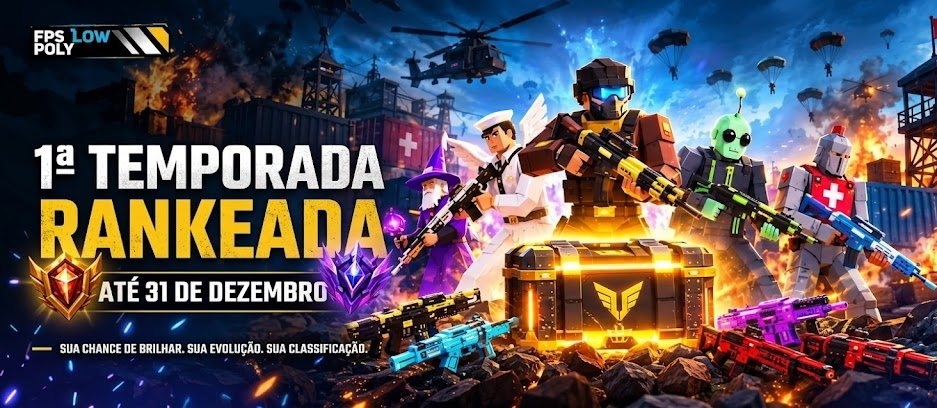
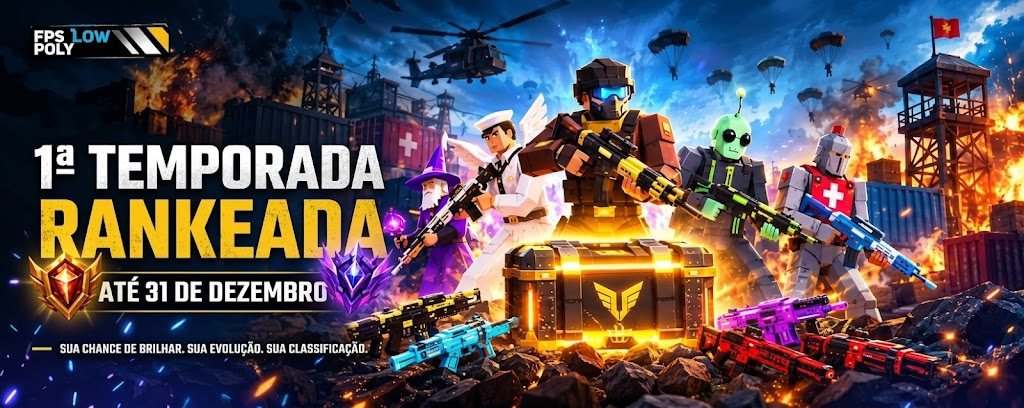
atualização de bugs

diff --git a/content.js b/content.js
@@ -1,18 +1,18 @@
 /* conteúdo editável do site (textos, eventos, modos, controles) */
 const MS = ['jan','fev','mar','abr','mai','jun','jul','ago','set','out','nov','dez'];
 const EV = [
-  ['2026-10', 'Halloween', 'Noite das Abóboras', 'Abóboras, teias e luz laranja no escuro.', 'Laboratório', 10],
-  ['2026-11', 'República', 'Bandeira da República', 'Azul e dourado para o mês da República.', 'Porto de Santos', 10],
-  ['2026-12', 'Natal', 'Bengala Doce', 'Conjunto de Natal com o Papai Noel, 30 moedas e 3 caixas.', 'Montanha de Gelo', 10],
-  ['2027-01', 'Ano Novo', 'Fogos de Réveillon', 'Brinde o ano novo com fogos e brilho dourado.', 'Plataforma de Petróleo', 10],
-  ['2027-02', 'Carnaval', 'Confete e Serpentina', 'A folia chegou ao parque de diversões.', 'Parque de Diversões', 10],
+  ['2026-10', 'Halloween', 'Noite das Abóboras', 'Abóboras, teias e luz laranja no escuro.', 'Laboratório', 7],
+  ['2026-11', 'República', 'Bandeira da República', 'Azul e dourado para o mês da República.', 'Porto de Santos', 8],
+  ['2026-12', 'Natal', 'Bengala Doce', 'Conjunto de Natal com o Papai Noel, 30 moedas e 3 caixas.', 'Montanha de Gelo', 8],
+  ['2027-01', 'Ano Novo', 'Fogos de Réveillon', 'Brinde o ano novo com fogos e brilho dourado.', 'Plataforma de Petróleo', 8],
+  ['2027-02', 'Carnaval', 'Confete e Serpentina', 'A folia chegou ao parque de diversões.', 'Parque de Diversões', 8],
   ['2027-03', 'Dia do Circo', 'Grande Circo', 'Respeitável público: listras vermelhas e brancas.', 'Parque de Diversões', 8],
-  ['2027-04', 'Páscoa', 'Ovo de Páscoa', 'Chocolate, laços e cores de Páscoa, com o Coelhinho.', 'Floresta', 10],
-  ['2027-05', 'Dia das Mães', 'Jardim em Flor', 'Flores e rosa para homenagear quem manda em casa.', 'Litoral', 10],
-  ['2027-06', 'Festa Junina', 'Arraiá', 'Xadrez junino, fogueira e bandeirinhas.', 'Sertãozinho', 10],
-  ['2027-07', 'Férias de Julho', 'Verão no Litoral', 'Sol, mar e areia dourada.', 'Litoral', 10],
-  ['2027-08', 'Folclore Brasileiro', 'Lenda da Mata', 'Curupira, Iara e Saci: o Brasil das lendas.', 'Floresta', 10],
-  ['2027-09', 'Independência', 'Verde e Amarelo', 'Orgulho nas cores do Brasil.', 'Montanha de Gelo', 10]
+  ['2027-04', 'Páscoa', 'Ovo de Páscoa', 'Chocolate, laços e cores de Páscoa, com o Coelhinho.', 'Floresta', 8],
+  ['2027-05', 'Dia das Mães', 'Jardim em Flor', 'Flores e rosa para homenagear quem manda em casa.', 'Litoral', 8],
+  ['2027-06', 'Festa Junina', 'Arraiá', 'Xadrez junino, fogueira e bandeirinhas.', 'Sertãozinho', 8],
+  ['2027-07', 'Férias de Julho', 'Verão no Litoral', 'Sol, mar e areia dourada.', 'Litoral', 8],
+  ['2027-08', 'Folclore Brasileiro', 'Lenda da Mata', 'Curupira, Iara e Saci: o Brasil das lendas.', 'Floresta', 8],
+  ['2027-09', 'Independência', 'Verde e Amarelo', 'Orgulho nas cores do Brasil.', 'Montanha de Gelo', 8]
 ].map(([ym, n, skin, desc, map, goal]) => ({ ym, n, skin, desc, map, goal, img: `img/banners/${ym}.jpg` }));
 const SOON = ['2027-10', '2027-11', '2027-12'];
 const ymLabel = (ym) => { const [y, m] = ym.split('-'); return `${MS[m - 1]}/${y.slice(2)}`; };
@@ -31,14 +31,14 @@ const MODES = [
 ];
 const SH = [['battle-royale', 'Battle Royale'], ['modo-bomba', 'Modo Bomba'], ['tatico', 'Tático: loja da rodada'], ['inventario', 'Arsenal e inventário'], ['elo', 'Elos e temporada'], ['menu', 'Menu principal']];
 const K = (k) => `<kbd>${k}</kbd>`;
-const KEYS = [['Andar', 'W A S D'], ['Correr', 'Shift'], ['Pular', 'Espaço'], ['Agachar / devagar', 'X'], ['Deslizar', 'C'], ['Atirar', 'Mouse esq.'], ['Mirar', 'Mouse dir.'], ['Recarregar', 'R'], ['Corpo a corpo', 'Clique na rolagem'], ['Primária ↔ Faca', 'E'], ['Primária ↔ Secundária', 'Q'], ['Slots', '1 · 2 · 3'], ['Granada', '4'], ['Bomba especial (fumaça, luz, mina)', '5'], ['Bomba (Modo Bomba)', '6'], ['Pegar item / desarmar bomba', 'T'], ['Largar item', 'G'], ['Lanterna', 'L'], ['Usar cura (Battle Royale)', 'H'], ['Construir barricada', 'N'], ['Marcar ponto (ping)', 'Z'], ['Loja / Arsenal / Mochila', 'B'], ['Placar', 'Tab'], ['Câmera 1ª / 3ª pessoa', 'V'], ['Estou preso', 'U'], ['Jogadores online / amigos', 'O']];
+const KEYS = [['Andar', 'W A S D'], ['Correr', 'Shift'], ['Pular', 'Espaço'], ['Agachar / devagar', 'X'], ['Deslizar', 'C'], ['Atirar', 'Mouse esq.'], ['Mirar', 'Mouse dir.'], ['Recarregar', 'R'], ['Corpo a corpo', 'Clique na rolagem'], ['Primária ↔ Secundária', 'Q'], ['Slots', '1 · 2 · 3'], ['Granada', '4'], ['Bomba especial (fumaça, luz, mina)', '5'], ['Bomba (Modo Bomba)', '6'], ['Pegar item / entrar no carro / desarmar bomba', 'E'], ['Largar item', 'G'], ['Lanterna', 'L'], ['Usar cura (Battle Royale)', 'H'], ['Construir barricada', 'N'], ['Marcar ponto (ping)', 'Z'], ['Loja / Arsenal / Mochila', 'B'], ['Placar', 'Tab'], ['Câmera 1ª / 3ª pessoa', 'V'], ['Estou preso', 'U'], ['Jogadores online / amigos', 'O']];
 const HOW = {
   'Controles': () => `<h3>Controles</h3><p>Você pode trocar qualquer tecla em <b>Configurações → Controles</b>. No celular, a tela mostra os botões de toque.</p><div class="keys">${KEYS.map(([n, k]) => `<div class="k">${k.split(' ').length > 1 && k.length < 9 ? k.split(' ').map(K).join('') : K(k)}<span>${n}</span></div>`).join('')}</div>`,
   'Chat e comandos': () => `<h3>Chat e atalhos</h3><div class="two"><div><p><b>Enter</b> abre o chat na partida: nos modos de time, a mensagem vai para o seu time; nos modos sem time, vai para todos.</p><p><b>Shift + Enter</b> (ou Alt + Enter) manda direto para <b>todos</b>.</p><p>Nos modos sem time, o prefixo <code>/all</code> fica fixo. Nos modos de time, você pode apagá-lo.</p></div><div><p><b>Comandos</b> (não aparecem no chat para ninguém):</p><div class="cmd"><code>/mute</code><span>desliga o chat</span></div><div class="cmd"><code>/unmute</code><span>liga de novo</span></div><div class="cmd"><code>/lanterna</code><span>liga a lanterna</span></div><div class="cmd"><code>/limpar</code><span>limpa o histórico</span></div><div class="cmd"><code>/ajuda</code><span>lista de comandos</span></div></div></div>`,
   'Battle Royale': () => `<h3>Battle Royale</h3><ul><li>Todos começam no <b>avião</b>. Escolha o momento do salto e abra o <b>paraquedas</b> (dá para cortá-lo perto do chão).</li><li>Saqueie <b>armas, munição, curas e equipamentos</b> pelo mapa. A munição aparece perto das armas compatíveis.</li><li>Há <b>carros</b> para atravessar o mapa depressa, mas fazem barulho.</li><li>A <b>zona</b> encolhe: ficar fora dela machuca.</li><li>Use <b>H</b> para se curar e o <b>ping (Z)</b> para avisar o esquadrão.</li></ul>`,
-  'Tático e Bomba': () => `<h3>Tático e Modo Bomba</h3><ul><li>Cada rodada começa na <b>fase de compra</b>: gaste seus créditos em armas, coletes e granadas (tecla <b>B</b>).</li><li>Vencer rodadas rende mais créditos; perder, menos. Pense na economia do time.</li><li><b>Modo Bomba:</b> o ataque leva a bomba (slot <b>6</b>) e planta no ponto <b>A</b> ou <b>B</b>. A defesa evita a plantagem ou <b>desarma</b> segurando <b>T</b>.</li><li>O Tático e o Modo Bomba usam mapas próprios, pensados para cobertura e rotação.</li></ul>`,
+  'Tático e Bomba': () => `<h3>Tático e Modo Bomba</h3><ul><li>Cada rodada começa na <b>fase de compra</b>: gaste seus créditos em armas, coletes e granadas (tecla <b>B</b>).</li><li>Vencer rodadas rende mais créditos; perder, menos. Pense na economia do time.</li><li><b>Modo Bomba:</b> o ataque leva a bomba (slot <b>6</b>) e planta no ponto <b>A</b> ou <b>B</b>. A defesa evita a plantagem ou <b>desarma</b> segurando <b>E</b>.</li><li>O Tático e o Modo Bomba usam mapas próprios, pensados para cobertura e rotação.</li></ul>`,
   'Mecânicas': () => `<h3>Mecânicas do jogo</h3><ul><li><b>Deslizar e agachar:</b> o deslize dá impulso e tem recarga. Agachado você anda devagar e mira melhor.</li><li><b>Munição e recarga:</b> cada arma tem pente, reserva e tempo de recarga próprios.</li><li><b>Anexos:</b> miras, silenciadores e empunhaduras mudam o comportamento da arma.</li><li><b>Armas especiais:</b> energia, arco, besta, lança-chamas, minigun e lançadores têm regras próprias.</li><li><b>Granadas:</b> fragmentação, fumaça, luz e mina. Use os slots 4 e 5.</li><li><b>Barricadas:</b> no Survival e nos modos com zumbis, construa proteção (N).</li><li><b>Zumbis:</b> corredores, brutamontes e tanques exigem posicionamento.</li><li><b>Vitórias e derrotas</b> dão XP e moedas; as moedas compram caixas de skins.</li></ul>`,
-  'Progressão': () => `<h3>Progressão</h3><ul><li><b>Nível 1 a 100:</b> a cada 10 níveis você sobe de patente, de Recruta a Comandante.</li><li><b>Prestígio:</b> ao chegar ao topo, recomece com título exclusivo.</li><li><b>Ranqueado:</b> calibre em 5 partidas e suba de elo. Cada temporada dura 3 meses.</li><li><b>Missões e eventos:</b> um evento por mês, com skins que só existem no mês.</li><li><b>Roleta e caixas:</b> prêmios com raridades Rara, Épica, Lendária e Mítica.</li><li><b>Tudo visível:</b> itens bloqueados aparecem para todos, com pré-visualização 3D, para você saber pelo que está jogando.</li></ul>`
+  'Progressão': () => `<h3>Progressão</h3><ul><li><b>Nível 1 a 100:</b> a cada 10 níveis você sobe de patente, de Recruta a Comandante.</li><li><b>Prestígio:</b> ao chegar ao topo, recomece com título exclusivo.</li><li><b>Ranqueado:</b> calibre em 5 partidas e suba de elo. Cada temporada dura 3 meses.</li><li><b>Missões e eventos:</b> um evento por mês, com skins que só existem no mês. Vale partida de 5 minutos ou mais no mapa do evento, em qualquer modo.</li><li><b>Achou um bug?</b> Use o botão <b>🐞 BUG</b> no menu: um relato por vez, com print opcional. Quando a equipe resolver, você recebe um aviso e confirma.</li><li><b>Melhores por modo:</b> o ranking do site mostra o campeão de cada modo (X1, PvP, Battle Royale e outros).</li><li><b>Roleta e caixas:</b> prêmios com raridades Rara, Épica, Lendária e Mítica.</li><li><b>Tudo visível:</b> itens bloqueados aparecem para todos, com pré-visualização 3D, para você saber pelo que está jogando.</li></ul>`
 };
 const LV = [['recruta', 'Recruta', 1], ['soldado', 'Soldado', 11], ['cabo', 'Cabo', 21], ['sargento', 'Sargento', 31], ['sargento-mor', 'Sargento-Mor', 41], ['tenente', 'Tenente', 51], ['capitao', 'Capitão', 61], ['major', 'Major', 71], ['coronel', 'Coronel', 81], ['comandante', 'Comandante', 91]];
 const EL = [['ferro', 'Ferro', 1000], ['bronze', 'Bronze', 1300], ['prata', 'Prata', 1600], ['ouro', 'Ouro', 1900], ['platina', 'Platina', 2200], ['diamante', 'Diamante', 2500], ['grao-mestre', 'Grão-Mestre', 2800], ['lenda', 'Lenda', 3100]];

diff --git a/app.js b/app.js
@@ -64,7 +64,7 @@ let sel = br().ym; if (!EVM[sel]) sel = EV[EV.length - 1].ym;
 function renderShowcase(ym) {
   sel = ym; const e = EVM[ym], b = br(), stt = ym === b.ym ? 'now' : ym < b.ym ? 'past' : 'next', has = ART.has(ym);
   const left = b.last - b.day + 1, tx = { now: ['st now', 'Valendo agora'], past: ['st past', 'Encerrado'], next: ['st next', 'Em breve'] }[stt];
-  $('#showcase').innerHTML = `<div class="poster ${has ? '' : 'ph'}" ${has ? `data-lb="${e.img}"` : ''}>${has ? img(e.img, 'Evento ' + e.n) : `<div><b>${esc(e.n)}</b><span>ARTE EM BREVE</span></div>`}</div><div class="sc-info"><span class="${tx[0]}">${tx[1]}</span><div class="kick">${ymTxt(ym)}</div><h3>${esc(e.n)}</h3><p>${esc(e.desc)}</p><div class="chips"><span class="chip">Missão <b>${e.goal} partidas</b></span><span class="chip">Mapa <b>${esc(e.map)}</b></span><span class="chip">Skin <b>${esc(e.skin)}</b></span>${stt === 'now' ? `<span class="chip">Faltam <b>${left} ${left === 1 ? 'dia' : 'dias'}</b></span>` : ''}</div>${stt === 'now' ? `<div class="bar"><i style="width:${Math.round(100 * (b.day - 1) / b.last)}%"></i></div>` : ''}<p class="mini">${stt === 'past' ? 'Esse evento só existia nesse mês.' : 'A recompensa é exclusiva do mês: quem não completar a missão até o último dia perde. Os itens aparecem bloqueados para todos, no Arsenal e na seleção de personagem.'}</p><div class="cta"><a class="btn play-link" href="${GAME}" target="_blank" rel="noopener">▶ ${stt === 'now' ? 'Jogar o evento' : 'Jogar'}</a></div></div>`;
+  $('#showcase').innerHTML = `<div class="poster ${has ? '' : 'ph'}" ${has ? `data-lb="${e.img}"` : ''}>${has ? img(e.img, 'Evento ' + e.n) : `<div><b>${esc(e.n)}</b><span>ARTE EM BREVE</span></div>`}</div><div class="sc-info"><span class="${tx[0]}">${tx[1]}</span><div class="kick">${ymTxt(ym)}</div><h3>${esc(e.n)}</h3><p>${esc(e.desc)}</p><div class="chips"><span class="chip">Missão <b>${e.goal} partidas de 5 min ou mais</b></span><span class="chip">Mapa <b>${esc(e.map)}</b></span><span class="chip">Skin <b>${esc(e.skin)}</b></span>${stt === 'now' ? `<span class="chip">Faltam <b>${left} ${left === 1 ? 'dia' : 'dias'}</b></span>` : ''}</div>${stt === 'now' ? `<div class="bar"><i style="width:${Math.round(100 * (b.day - 1) / b.last)}%"></i></div>` : ''}<p class="mini">${stt === 'past' ? 'Esse evento só existia nesse mês.' : 'A recompensa é exclusiva do mês: quem não completar a missão até o último dia perde. Os itens aparecem bloqueados para todos, no Arsenal e na seleção de personagem.'}</p><div class="cta"><a class="btn play-link" href="${GAME}" target="_blank" rel="noopener">▶ ${stt === 'now' ? 'Jogar o evento' : 'Jogar'}</a></div></div>`;
   $$('#cal .cm').forEach((x) => x.classList.toggle('sel', x.dataset.ym === ym));
 }
 function renderCal() {
@@ -127,7 +127,11 @@ async function loadRank() {
     body.innerHTML = r.top.length ? r.top.map((u) => `<tr class="${u.pos <= 3 ? 'top' : ''}"><td>${u.pos}</td><td class="nk">${esc(u.nick)}</td><td><div class="el"><img src="img/ranks/${esc(u.tier)}.png" alt="">${esc(u.tierName)}${u.division ? ' ' + 'I'.repeat(u.division) : ''}</div></td><td>${u.rp}</td><td>${u.level}</td><td>${u.wins}</td></tr>`).join('') : '<tr><td colspan="6" class="mut">Ninguém classificado ainda. Jogue 5 partidas ranqueadas e entre na lista!</td></tr>';
   } catch { $('#rank-body').innerHTML = '<tr><td colspan="6" class="mut">Ranking indisponível no momento.</td></tr>'; }
 }
-loadStatus(); loadRank(); setInterval(loadStatus, 30000); setInterval(loadRank, 60000);
+async function loadModes() {   // MELHORES POR MODO: só aparece o modo que já tem vencedor
+  const box = $('#modes-rank'); if (!box) return;
+  try { const r = await j('/api/public/modes'); box.innerHTML = r.modes.length ? r.modes.map((g) => `<div class="panel mrk"><h4>${esc(g.name)}</h4>${g.rows.slice(0, 5).map((u) => `<div class="mr p${u.pos}"><i>${u.pos}</i><b>${esc(u.nick)}</b><span>${u.wins} vit. · ${u.kills} abates</span></div>`).join('')}</div>`).join('') : '<p class="mut c">Os campeões de cada modo aparecem aqui assim que as primeiras partidas terminarem.</p>'; } catch { box.innerHTML = ''; }
+}
+loadStatus(); loadRank(); loadModes(); setInterval(loadStatus, 30000); setInterval(loadRank, 60000); setInterval(loadModes, 90000);
 
 /* ============ UI geral ============ */
 const nav = $('#nav'), fab = $('.fab');

diff --git a/style.css b/style.css
@@ -192,3 +192,9 @@ footer{padding:30px 20px;text-align:center;color:var(--mut);font-size:13.5px;bor
 @media(max-width:640px){.wrap{width:calc(100% - 28px)}.hero{padding:96px 18px 70px}.live b{font-size:28px}.live{font-size:16px}.gallery{grid-template-columns:1fr 1fr}.shot,.shot:nth-child(1),.shot:nth-child(2){grid-column:span 2}.steps,.story{grid-template-columns:1fr 1fr}.ch8 .mi{padding:50px 12px 12px}.ch8 p{display:none}.modes{grid-template-columns:1fr 1fr}.mode p{display:none}.mapview{aspect-ratio:4/3}.mapview p{display:none}.kit{grid-template-columns:1fr 1fr}.sh p{font-size:15px}.cm{flex-basis:128px}.thumbs{grid-template-columns:repeat(2,1fr)}.facts{gap:10px 20px}.count b{font-size:24px}}
 @media(prefers-reduced-motion:reduce){*{animation:none!important;transition:none!important}html{scroll-behavior:auto}}
 .count{display:flex;gap:8px;margin:12px 0}.count div{flex:1;min-width:0;background:#05070a;border:1px solid #2a3442;text-align:center;padding:8px 4px 6px}.count b{display:block;font:400 28px var(--disp);color:var(--y2);line-height:1.1}.count small{font:700 10.5px var(--cond);letter-spacing:.2em;color:var(--mut)}
+
+.mrk-grid{display:grid;grid-template-columns:repeat(auto-fill,minmax(260px,1fr));gap:16px;margin-top:18px}
+.mrk h4{margin:0 0 10px;letter-spacing:.16em;text-transform:uppercase;font-size:13px;color:var(--gold,#f5b800)}
+.mr{display:grid;grid-template-columns:24px 1fr;gap:2px 10px;padding:7px 0;border-top:1px solid rgba(255,255,255,.07)}
+.mr i{font-style:normal;font-weight:900;opacity:.6}.mr.p1 i{color:#ffd24a;opacity:1}.mr.p2 i{color:#cbd5e1;opacity:1}.mr.p3 i{color:#d08a4a;opacity:1}
+.mr b{overflow:hidden;text-overflow:ellipsis;white-space:nowrap}.mr span{grid-column:2;font-size:12px;opacity:.65}

diff --git a/index.html b/index.html
@@ -159,6 +159,8 @@
     <div class="stats" id="stats"></div>
     <div class="panel rank-wrap"><table class="rank"><thead><tr><th>#</th><th>Jogador</th><th>Elo</th><th>RP</th><th>Nível</th><th>Vitórias</th></tr></thead><tbody id="rank-body"><tr><td colspan="6" class="mut">Carregando…</td></tr></tbody></table></div>
     <p class="mini c">Entram no ranking quem fez pelo menos 5 partidas ranqueadas na temporada. Só o apelido é público.</p>
+    <header class="sh" style="margin-top:46px"><span class="tag">// Por modo</span><h2>Os melhores de <em>cada modo</em></h2><p>Quem mais venceu no X1, no PvP, no Battle Royale e nos demais. O modo só aparece quando já tem campeão.</p></header>
+    <div class="mrk-grid" id="modes-rank"></div>
   </div>
 </section>
 
